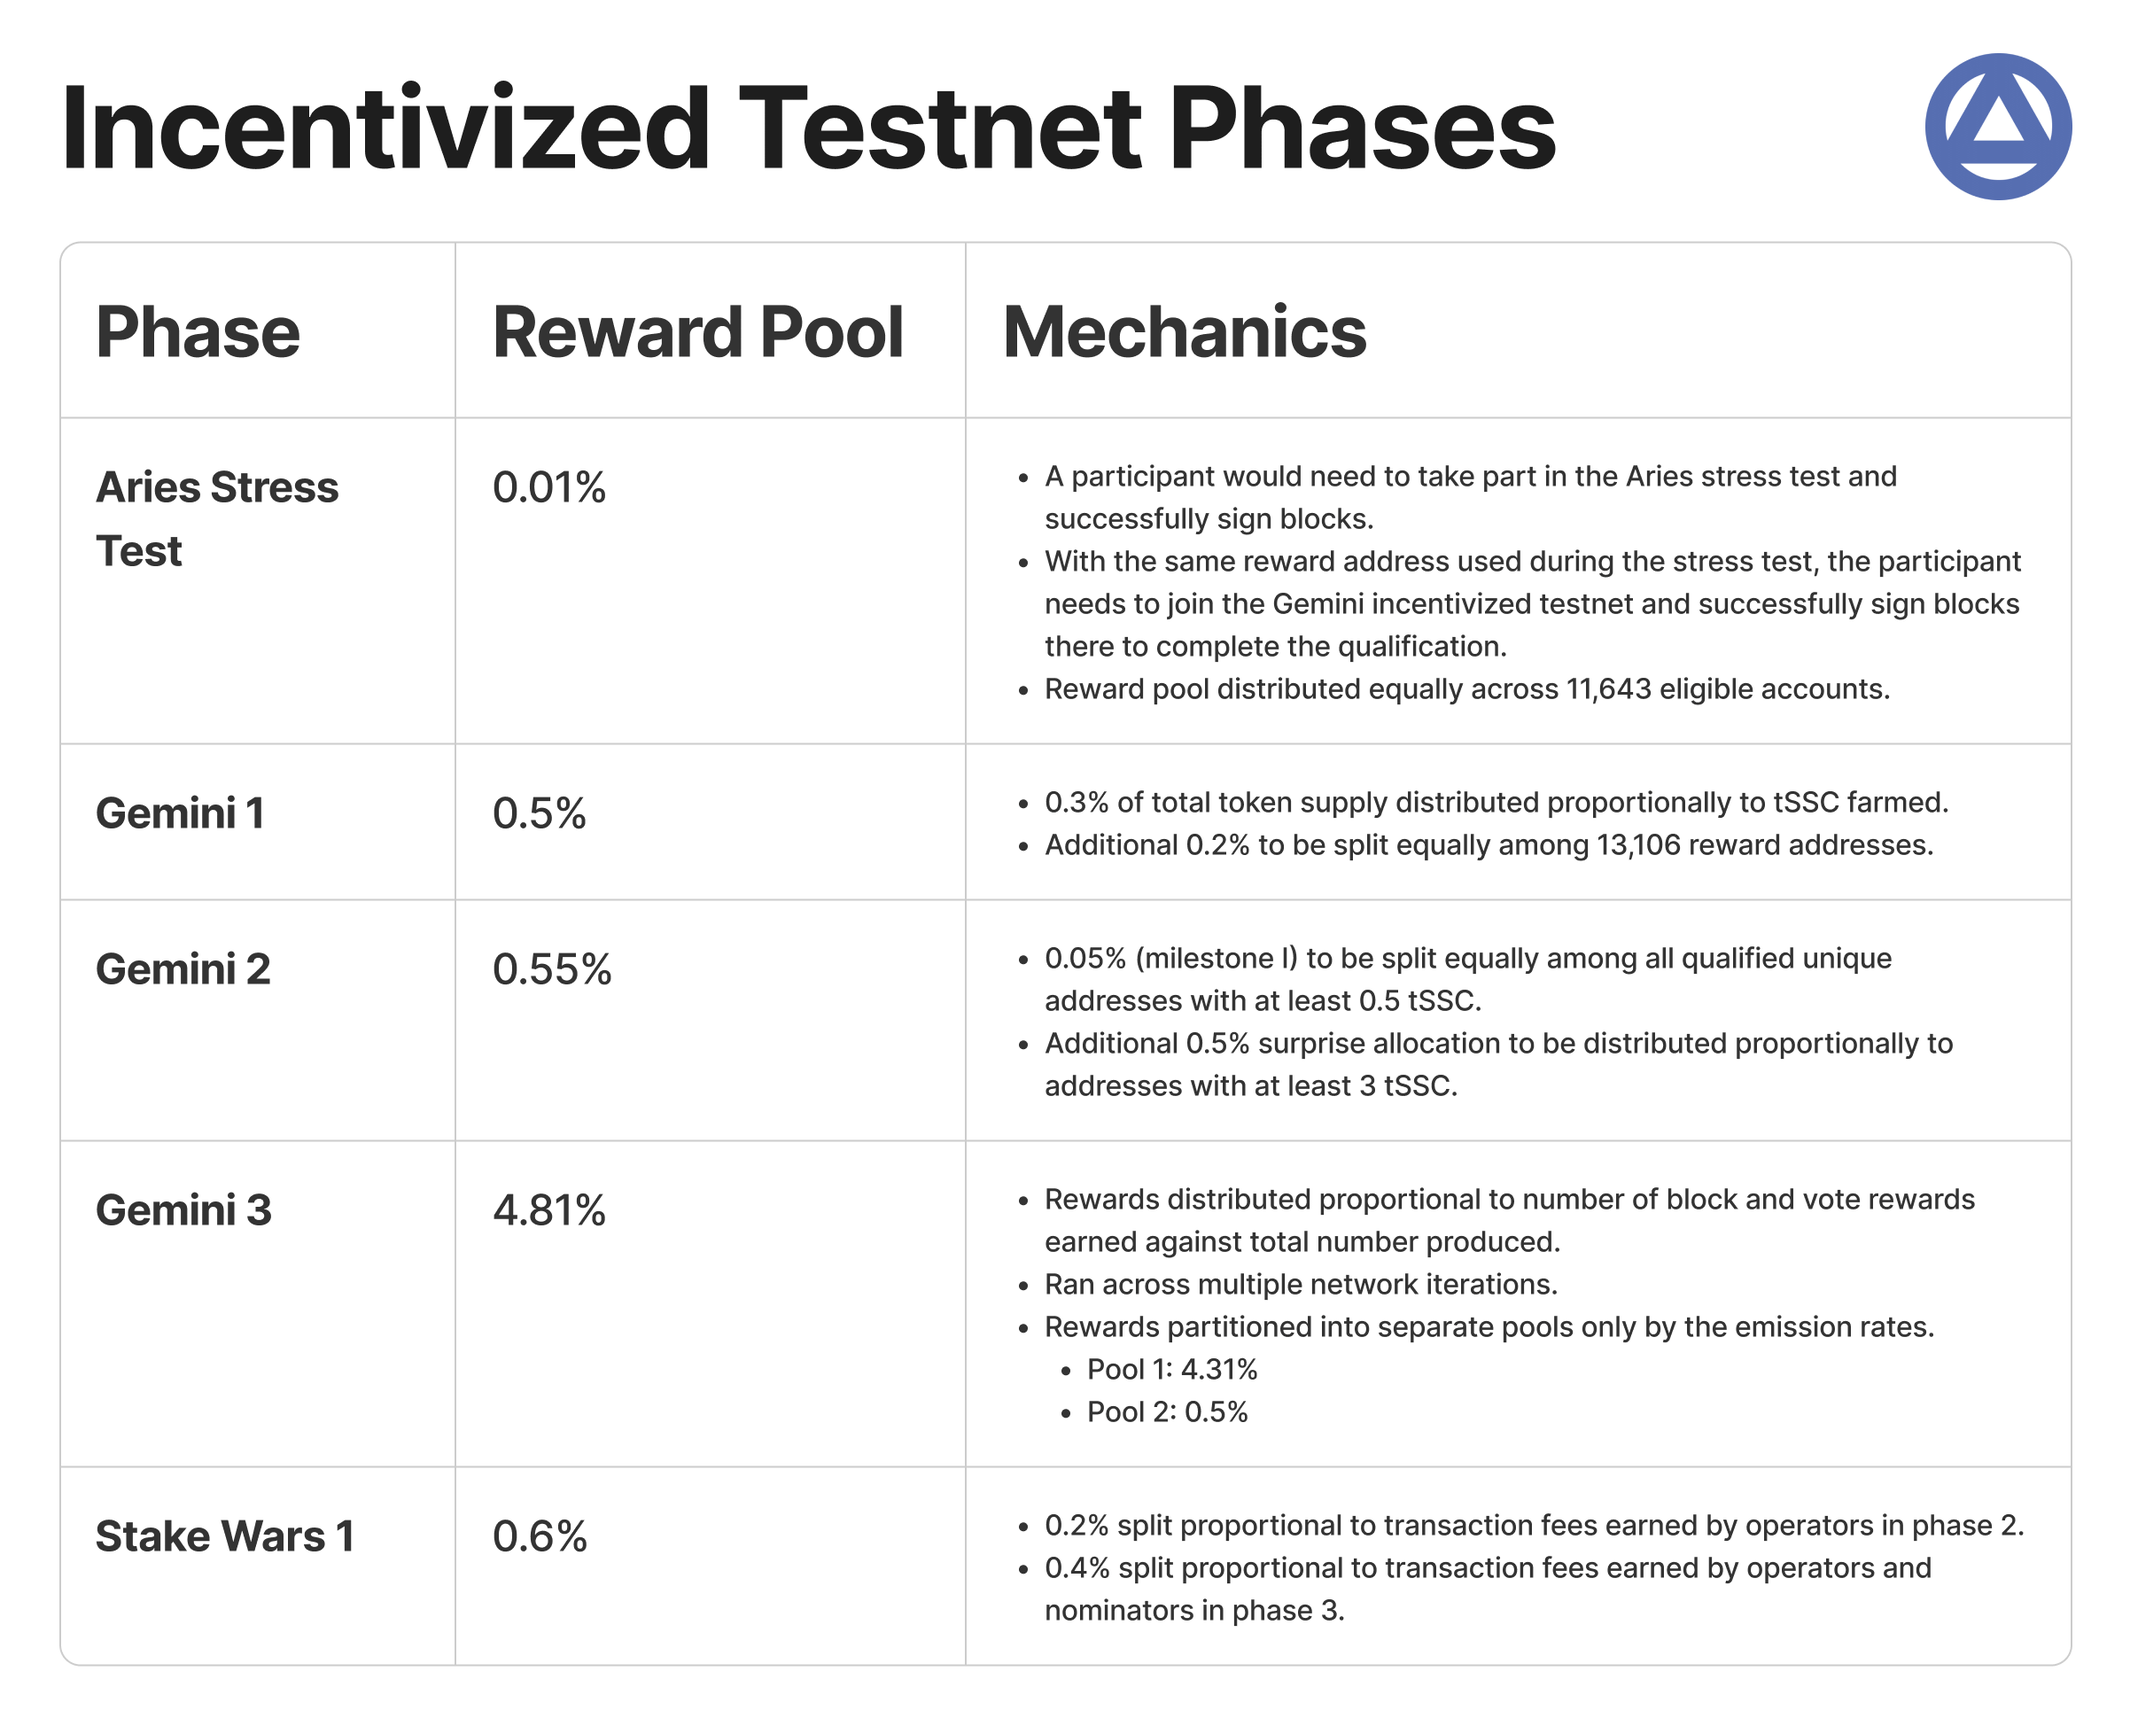
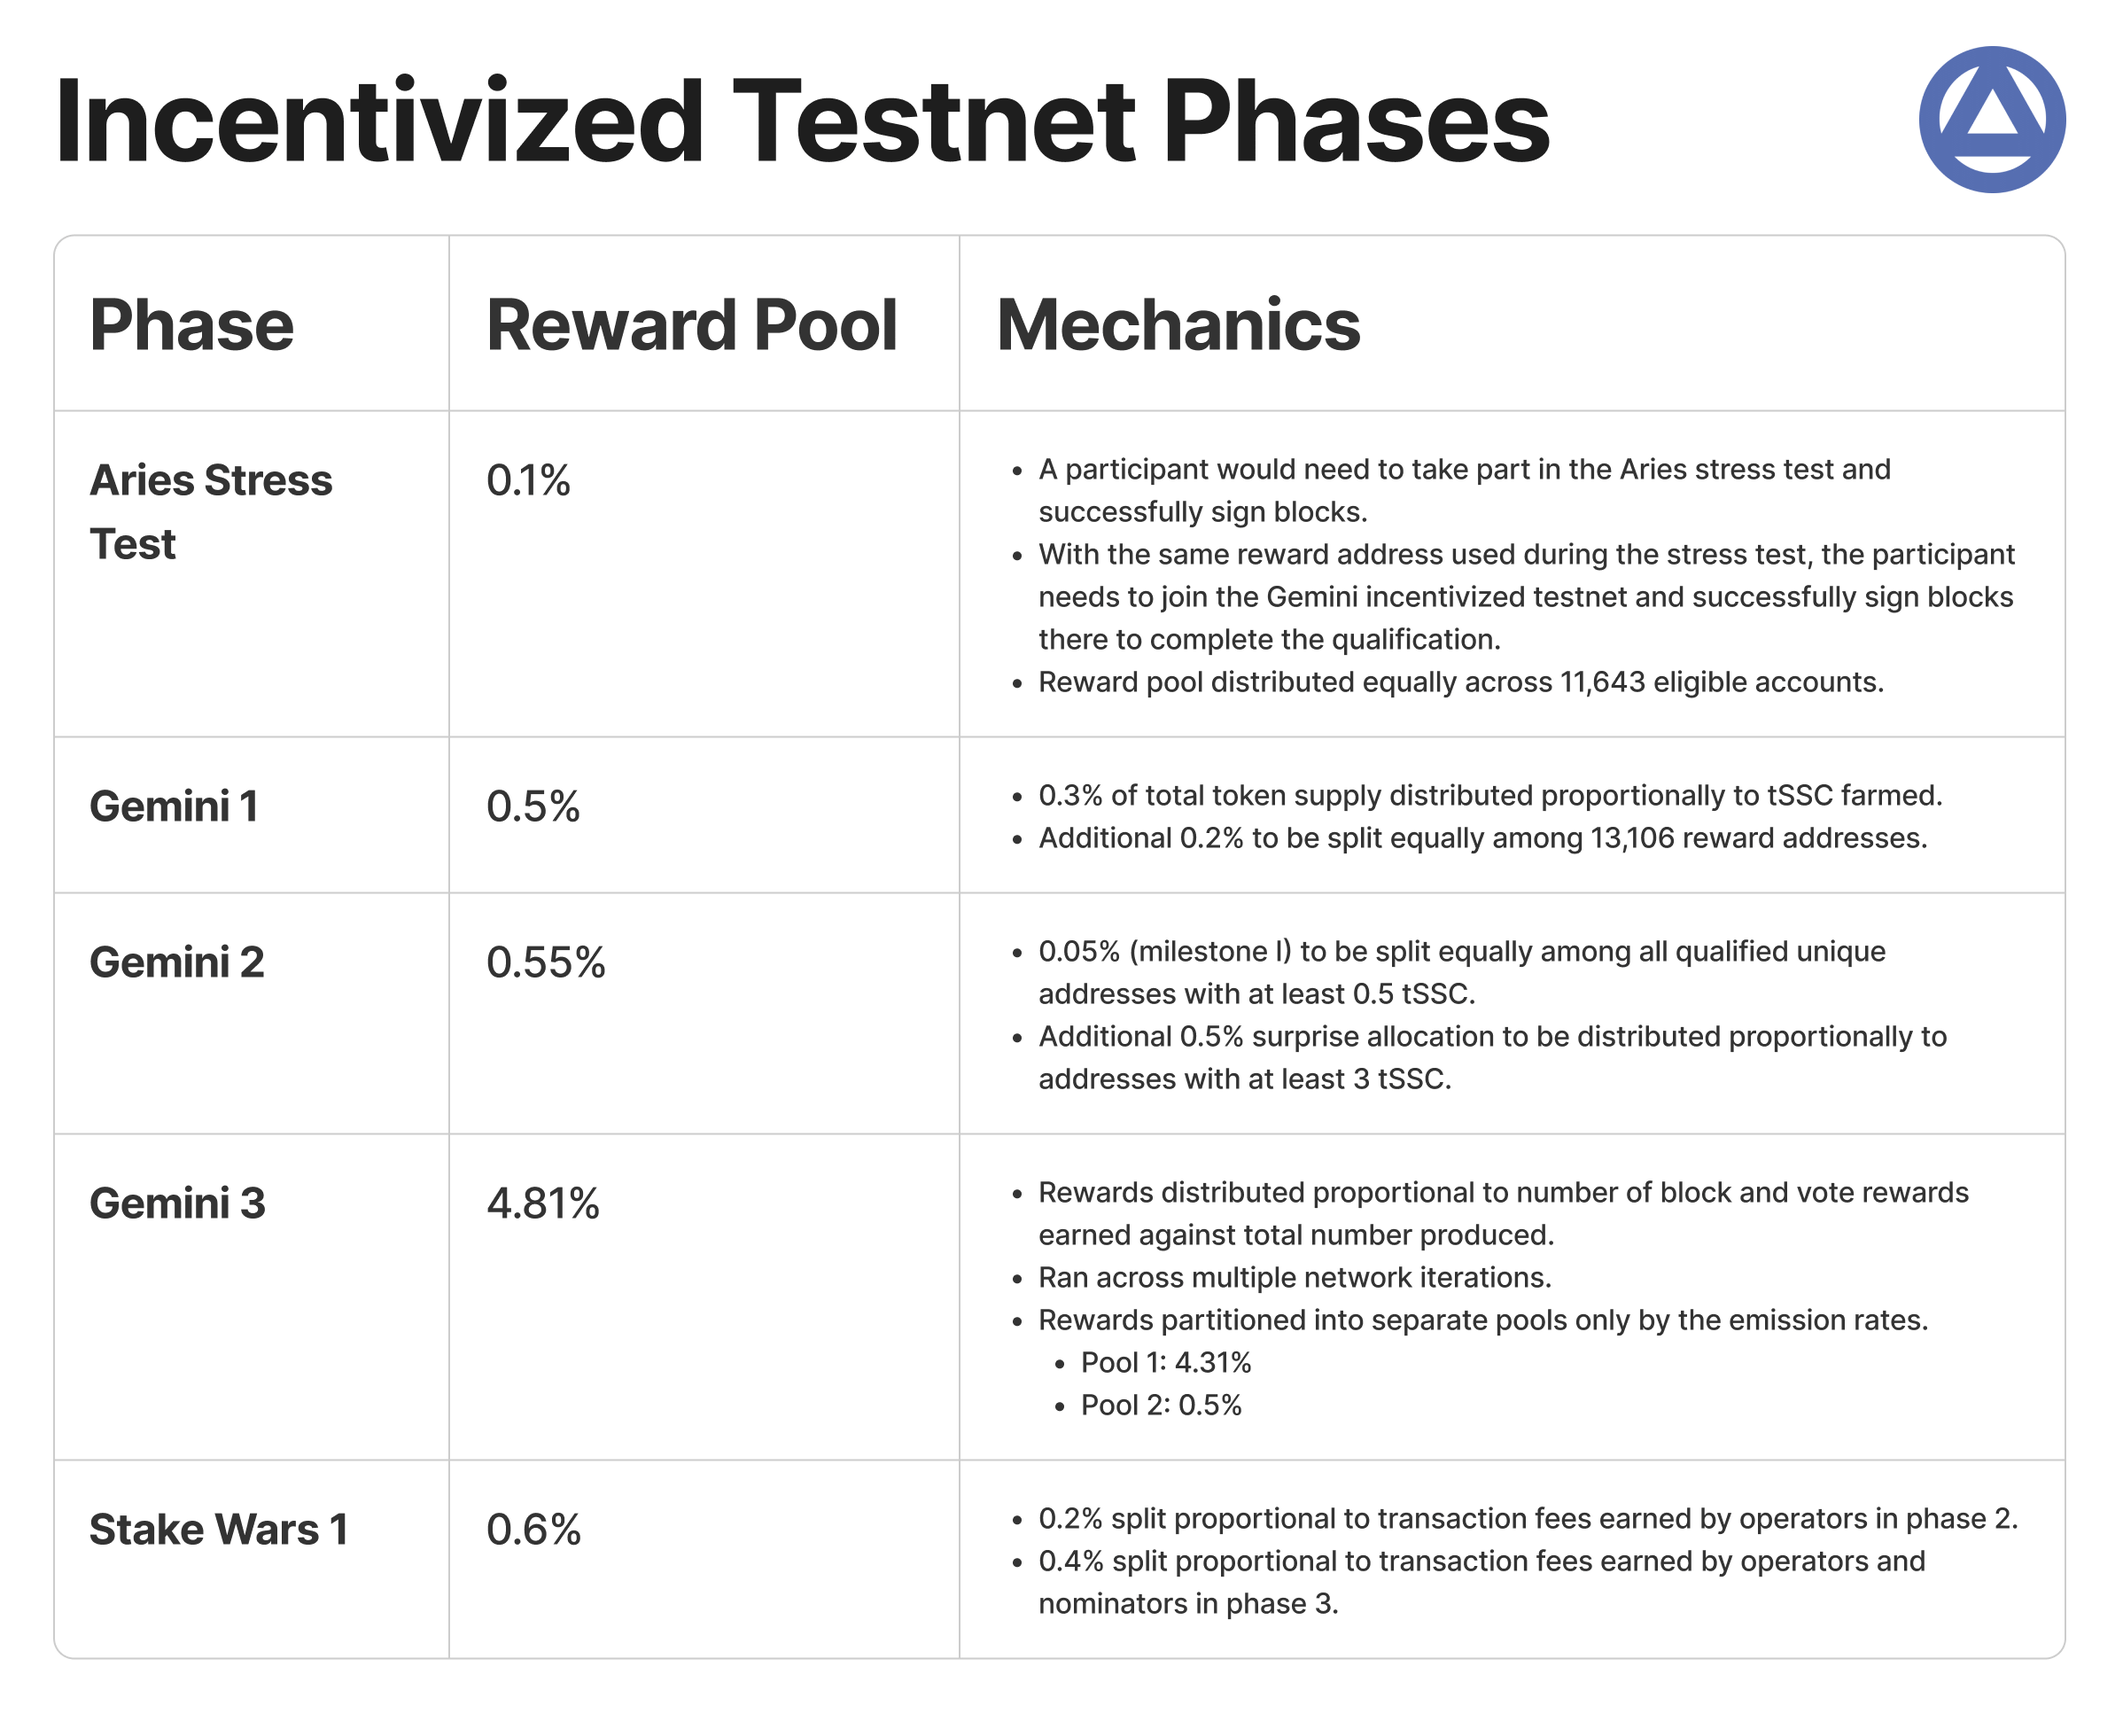
Correct the Aries reward pool amount.

diff --git a/README.md b/README.md
@@ -8,7 +8,7 @@ Final Gemini farming reward allocations (excluding Aries stress test and Stake W
 Detailed breakdown of the data can be found in the [XLSX file](https://github.com/subspace/incentivized-testnets/blob/main/Aries%20Stress%20Test.xlsx) which was created as follows:
 1. Identify all wallets that participated in the Aries stress test.
 2. Determine Gemini rewards for each wallet.
-3. Any with a non-zero Gemini rewards balance have an equal share of the 0.01% allocation.
+3. Any with a non-zero Gemini rewards balance have an equal share of the 0.1% allocation.
 
 ### Gemini Breakdown
 Detailed breakdown of all incentivized testnets and exact calculation formulas can be found in the [XLSX file](https://github.com/subspace/incentivized-testnets/blob/main/Subspace%20Testnet%20Token%20Distribution%20List_calculations_FINAL.xlsx) which was created as follows:
